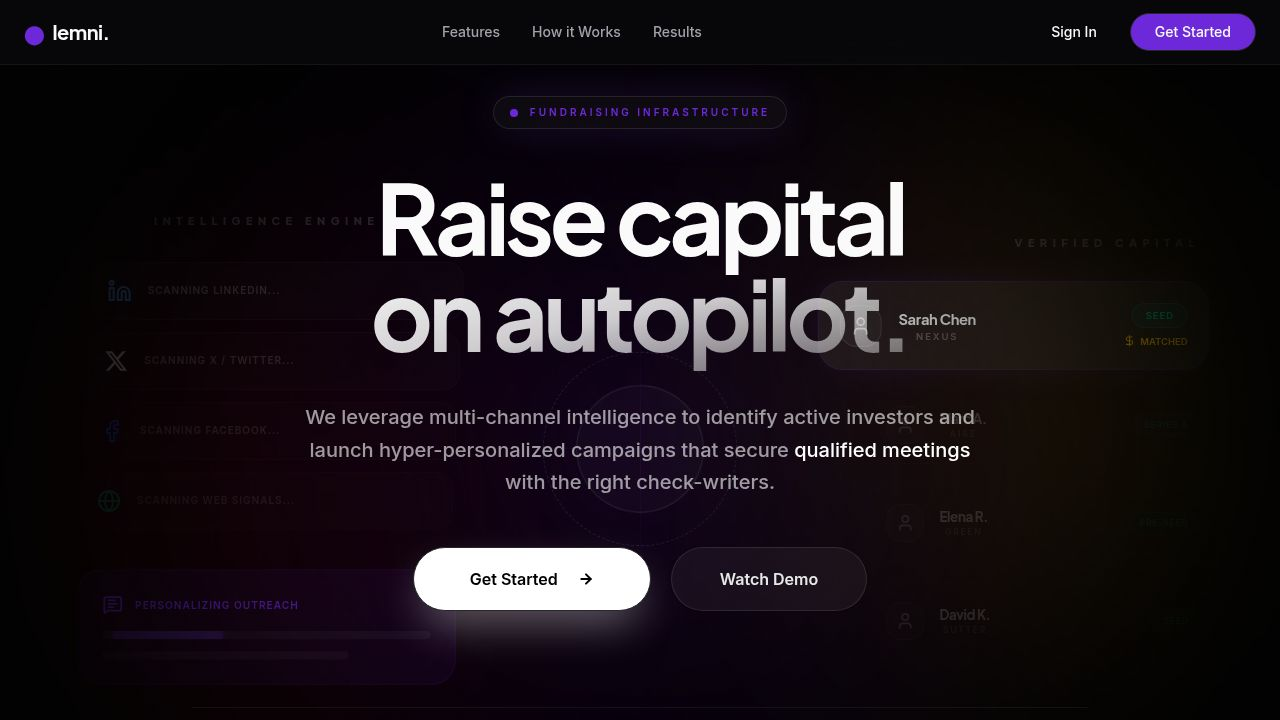
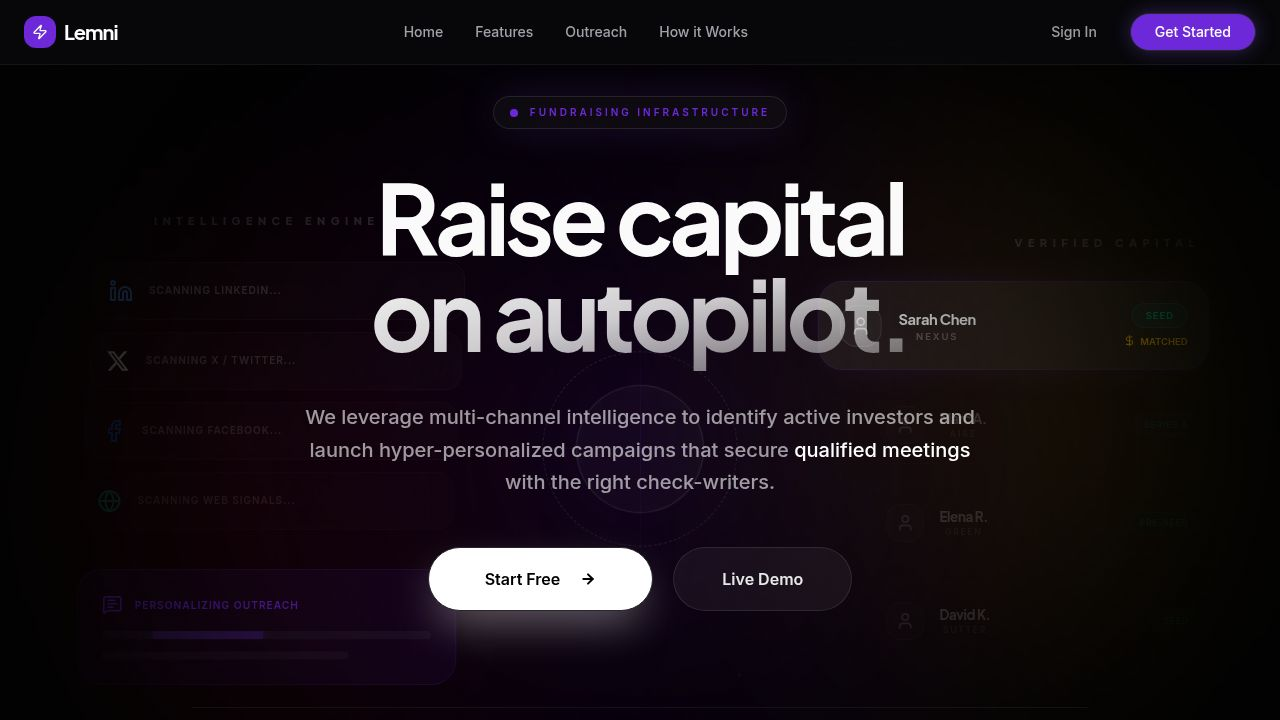
Update homepage call to action buttons and links
Changes the "Get Started" button to "Start Free" linking to the login page and the "Watch Demo" button to "Live Demo" linking to a Calendly URL.

Replit-Commit-Author: Agent
Replit-Commit-Session-Id: f5bb1d24-54de-42c8-824b-f10c209e444f
Replit-Commit-Checkpoint-Type: full_checkpoint
Replit-Commit-Event-Id: 9a44a2e5-6255-4bf3-9d03-5d254721f692
Replit-Commit-Screenshot-Url: https://storage.googleapis.com/screenshot-production-us-central1/aa9395b6-313e-420c-9ea3-cb4abeee14a0/f5bb1d24-54de-42c8-824b-f10c209e444f/GQWVBcb
Replit-Helium-Checkpoint-Created: true

diff --git a/client/src/components/sections/Hero.tsx b/client/src/components/sections/Hero.tsx
@@ -2,6 +2,7 @@ import { Button } from "@/components/ui/button";
 import { ArrowRight, CheckCircle2 } from "lucide-react";
 import { motion } from "framer-motion";
 import { DataFlowAnimation } from "@/components/ui/DataFlowAnimation";
+import { Link } from "wouter";
 
 export function Hero() {
   return (
@@ -40,13 +41,17 @@ export function Hero() {
             </p>
 
             <div className="flex flex-col sm:flex-row gap-5 mb-24 justify-center">
-              <Button size="lg" className="text-base font-black rounded-full h-16 px-14 bg-white text-black hover:bg-white/90 shadow-[0_20px_45px_-10px_rgba(255,255,255,0.4)] transition-all hover:scale-[1.05] active:scale-[0.95] group">
-                Get Started
-                <ArrowRight className="ml-3 h-5 w-5 transition-transform group-hover:translate-x-1.5" strokeWidth={3} />
-              </Button>
-              <Button size="lg" variant="outline" className="text-base font-black rounded-full h-16 px-12 bg-white/5 backdrop-blur-2xl border-white/10 hover:bg-white/10 transition-all text-white/90">
-                Watch Demo
-              </Button>
+              <Link href="/login">
+                <Button size="lg" className="text-base font-black rounded-full h-16 px-14 bg-white text-black hover:bg-white/90 shadow-[0_20px_45px_-10px_rgba(255,255,255,0.4)] transition-all hover:scale-[1.05] active:scale-[0.95] group">
+                  Start Free
+                  <ArrowRight className="ml-3 h-5 w-5 transition-transform group-hover:translate-x-1.5" strokeWidth={3} />
+                </Button>
+              </Link>
+              <a href="https://calendly.com/rajadurgarao567/30min" target="_blank" rel="noopener noreferrer">
+                <Button size="lg" variant="outline" className="text-base font-black rounded-full h-16 px-12 bg-white/5 backdrop-blur-2xl border-white/10 hover:bg-white/10 transition-all text-white/90">
+                  Live Demo
+                </Button>
+              </a>
             </div>
 
             {/* Centered Highlights */}
